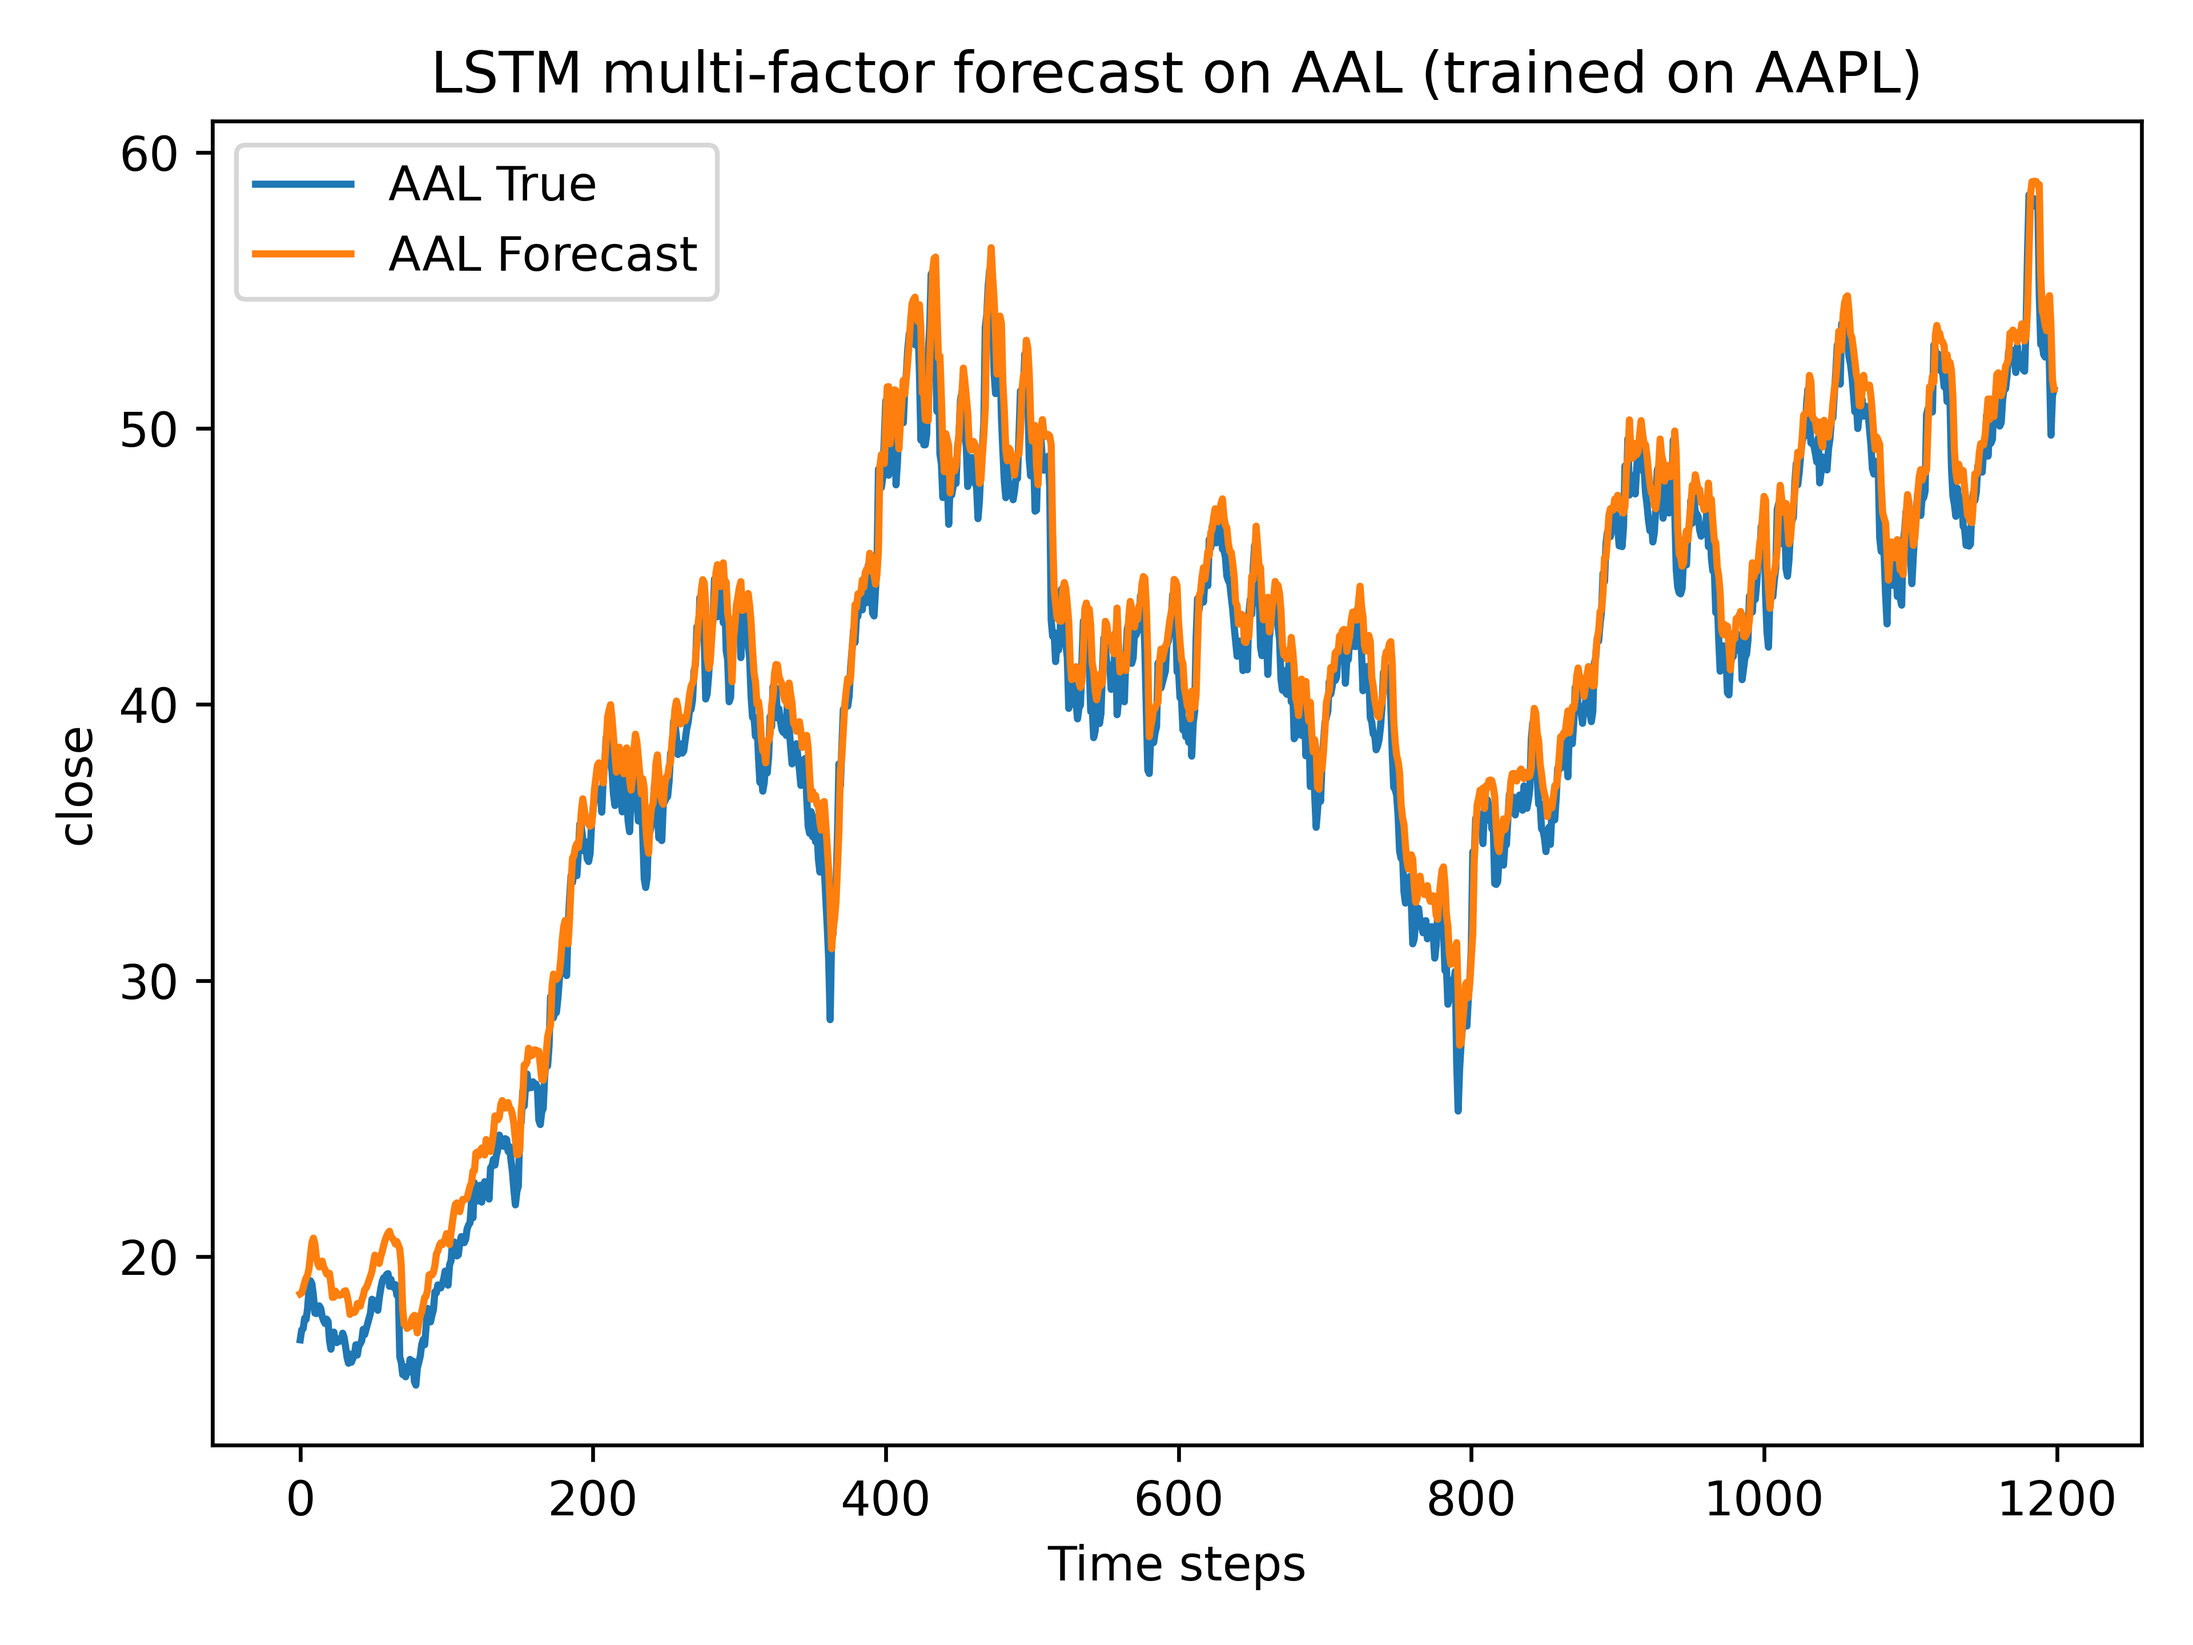
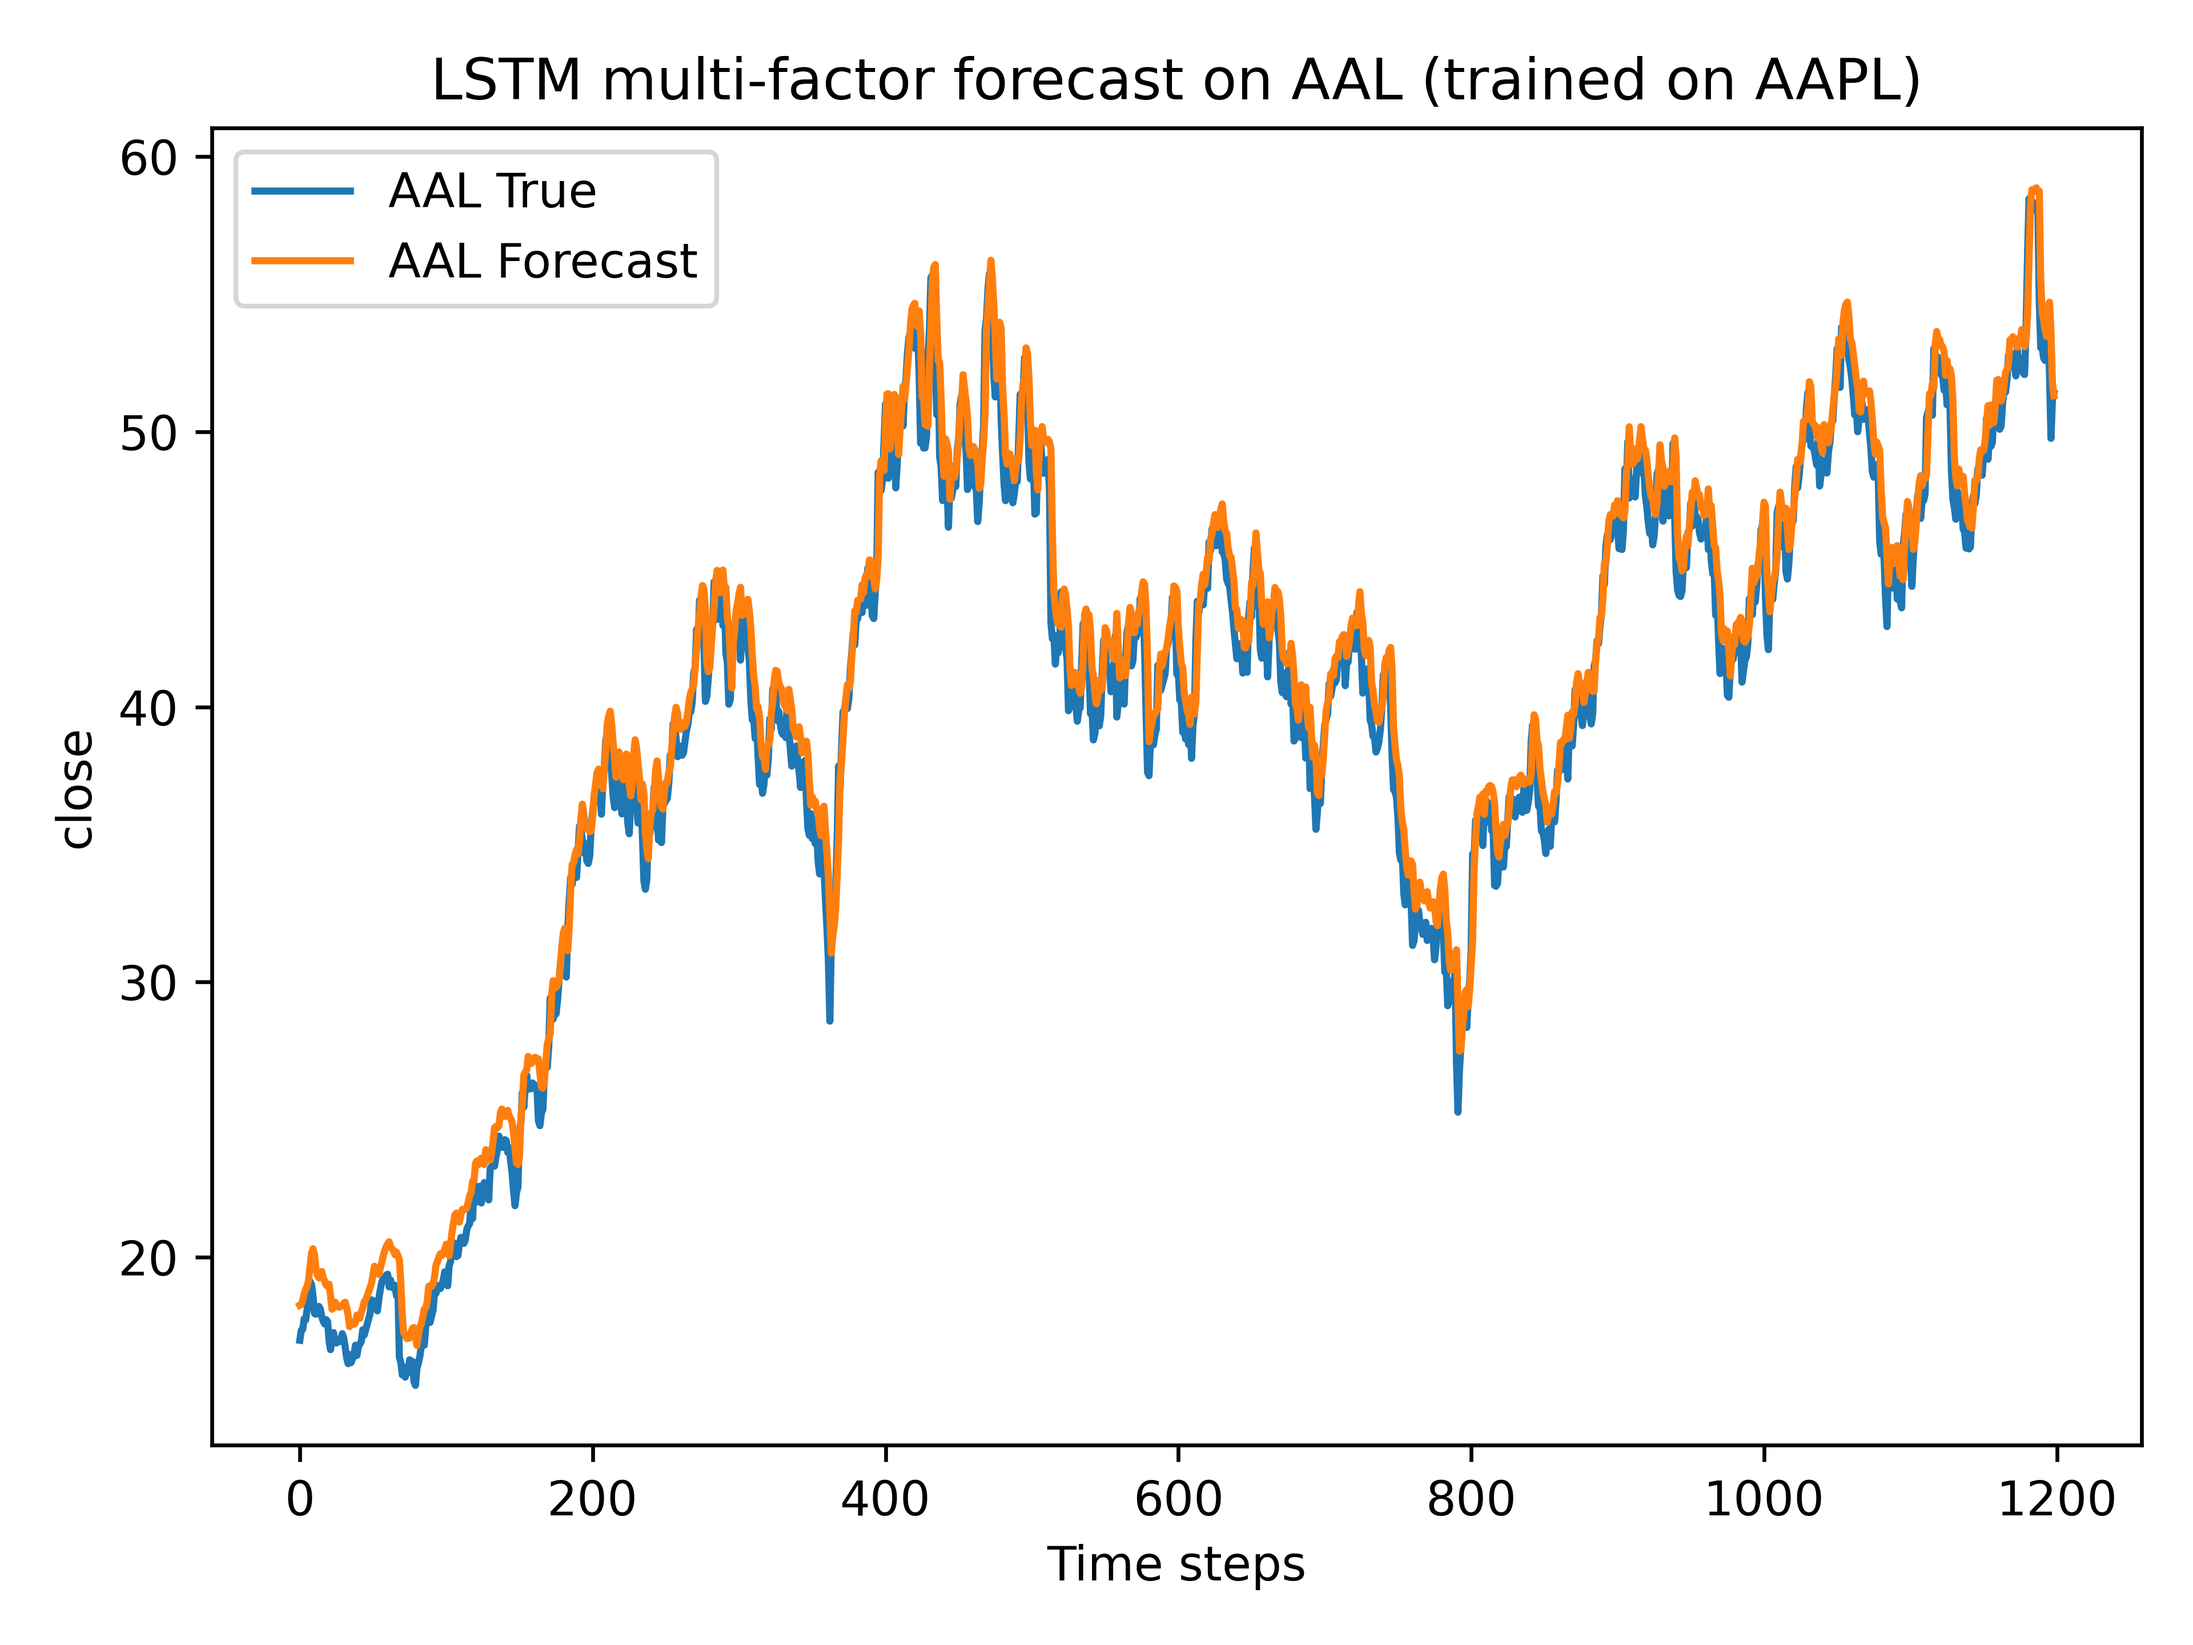
new

diff --git a/test.py b/test.py
@@ -1,0 +1,322 @@
+import numpy as np
+import pandas as pd
+import matplotlib.pyplot as plt
+from pathlib import Path
+from sklearn.preprocessing import MinMaxScaler
+from sklearn.metrics import mean_absolute_error, mean_squared_error
+
+import torch
+import torch.nn as nn
+from torch.utils.data import TensorDataset, DataLoader
+
+device = torch.device("cuda" if torch.cuda.is_available() else "cpu")
+
+DATA_PATH = Path("stock.csv")      
+OUT_DIR = Path("./outputs1"); OUT_DIR.mkdir(parents=True, exist_ok=True)
+
+TRAIN_NAME = "AAPL"
+OTHER_NAMES = ["AAL", "ABBV"]     
+
+FEATURES = ["open", "high", "low", "close", "volume"]
+TARGET = "close"
+
+# ====== 数据加载与处理 ======
+def load_all(date_col="date", name_col="Name"):
+    df = pd.read_csv(DATA_PATH)
+    df[date_col] = pd.to_datetime(df[date_col], errors="coerce")
+    df = df.dropna(subset=[date_col]).sort_values([name_col, date_col])
+    return df
+
+def get_series_by_name(df, name, date_col="date", name_col="Name"):
+    sub = df[df[name_col] == name].copy()
+    if sub.empty:
+        raise ValueError(f"在 CSV 中找不到股票: {name}")
+    sub = sub.sort_values(date_col)
+    return sub.set_index(date_col)
+
+def split_series(values, test_ratio=0.2, min_test=30):
+    n = len(values)
+    t = max(int(n * test_ratio), min_test)
+    return values[:-t], values[-t:]
+
+def make_supervised_multi(X_feat, y_vals, window, horizon=1):
+    """
+    X_feat: (T, n_features)
+    y_vals: (T,) 目标是一维 close
+    """
+    X_list, y_list = [], []
+    T = len(y_vals)
+    for i in range(T - window - horizon + 1):
+        X_list.append(X_feat[i:i+window, :])
+        y_list.append(y_vals[i+window:i+window+horizon])
+    X = np.stack(X_list)                 # (N, window, n_features)
+    y = np.array(y_list).reshape(-1, horizon)   # (N, horizon)
+    return X, y
+
+def metrics(y_true, y_pred):
+    mae = mean_absolute_error(y_true, y_pred)
+    rmse = np.sqrt(mean_squared_error(y_true, y_pred))
+    mape = np.mean(np.abs((y_true - y_pred) / (y_true + 1e-9))) * 100
+    return mae, rmse, mape
+
+# ====== LSTM 模型 ======
+class LSTMPredictor(nn.Module):
+    def __init__(self, input_size, hidden_size=64, horizon=1):
+        super().__init__()
+        self.lstm = nn.LSTM(
+            input_size=input_size,
+            hidden_size=hidden_size,
+            batch_first=True
+        )
+        self.fc = nn.Linear(hidden_size, horizon)
+
+    def forward(self, x):
+        # x: (batch, seq_len, input_size)
+        out, _ = self.lstm(x)
+        last_hidden = out[:, -1, :]     # (batch, hidden_size)
+        out = self.fc(last_hidden)      # (batch, horizon)
+        return out
+
+# ====== 训练 + 在同一股票 test 上预测 ======
+def lstm_torch_multi(
+    X_train_feat, y_train_vals,
+    X_test_feat, y_test_vals,
+    window,
+    horizon=1,
+    epochs=200,
+    batch=32,
+    units=64,
+    return_model=False
+):
+    """
+    使多因子模型和单因子模型风格一致：
+    - 训练：固定窗口 -> 下一日 close
+    - 测试：从 train 尾部取一个 window，滚动预测 test 段，
+            每一步用“真实的 test 特征”推进窗口（teacher forcing）
+    """
+    assert horizon == 1, "当前实现只支持 horizon=1"
+
+    n_features = X_train_feat.shape[1]
+
+    # ===== 1. 联合归一化 train+test =====
+    all_feat = np.vstack([X_train_feat, X_test_feat])
+    all_target = np.concatenate([y_train_vals, y_test_vals])
+
+    scaler_X = MinMaxScaler()
+    scaler_y = MinMaxScaler()
+
+    feat_scaled = scaler_X.fit_transform(all_feat)
+    target_scaled = scaler_y.fit_transform(all_target.reshape(-1, 1)).flatten()
+
+    train_len = len(X_train_feat)
+    X_train_scaled = feat_scaled[:train_len]
+    X_test_scaled = feat_scaled[train_len:]
+    y_train_scaled = target_scaled[:train_len]
+    y_test_scaled = target_scaled[train_len:]
+
+    # ===== 2. 构造训练样本：滑动窗口 -> 下一天 =====
+    X_list, y_list = [], []
+    for i in range(len(y_train_scaled) - window):
+        X_list.append(X_train_scaled[i:i+window, :])   # (window, n_features)
+        y_list.append(y_train_scaled[i+window])        # 标的是第 window+1 天的 close
+
+    X_train_seq = np.array(X_list)                    # (N, window, n_features)
+    y_train_seq = np.array(y_list).reshape(-1, 1)     # (N, 1)
+
+    X_train_t = torch.tensor(X_train_seq, dtype=torch.float32).to(device)
+    y_train_t = torch.tensor(y_train_seq, dtype=torch.float32).to(device)
+
+    dataset = TensorDataset(X_train_t, y_train_t)
+    loader = DataLoader(dataset, batch_size=batch, shuffle=True)
+
+    # ===== 3. 定义模型 =====
+    model = LSTMPredictor(input_size=n_features, hidden_size=units, horizon=1).to(device)
+    criterion = nn.MSELoss()
+    optimizer = torch.optim.Adam(model.parameters(), lr=1e-3)
+
+    # ===== 4. 训练 =====
+    model.train()
+    for ep in range(epochs):
+        epoch_loss = 0.0
+        for xb, yb in loader:
+            optimizer.zero_grad()
+            pred = model(xb)          # (batch, 1)
+            loss = criterion(pred, yb)
+            loss.backward()
+            optimizer.step()
+            epoch_loss += loss.item() * xb.size(0)
+        print(f"Epoch {ep+1}/{epochs} - loss: {epoch_loss/len(dataset):.6f}")
+
+    # ===== 5. 在 test 段做“滚动预测”（与单因子风格一致）=====
+    model.eval()
+    preds_scaled = []
+
+    # 初始 history：取 train 段最后 window 天的特征
+    history_feat = list(X_train_scaled[-window:])   # 长度 = window
+
+    with torch.no_grad():
+        for t in range(len(X_test_scaled)):
+            # 用 history 中最近 window 天作为模型输入
+            x = np.array(history_feat[-window:]).reshape(1, window, n_features)
+            x_t = torch.tensor(x, dtype=torch.float32).to(device)
+            yhat_scaled = model(x_t).cpu().numpy().flatten()[0]
+            preds_scaled.append(yhat_scaled)
+
+            # 用真实的 test 特征推进窗口（teacher forcing）
+            history_feat.append(X_test_scaled[t])
+
+    preds_scaled = np.array(preds_scaled).reshape(-1, 1)
+
+    # y_true：直接用原始尺度的 y_test_vals
+    inv_preds = scaler_y.inverse_transform(preds_scaled).flatten()
+    inv_test = y_test_vals[-len(inv_preds):]   # 对齐（正常情况长度相等）
+
+    if return_model:
+        return inv_test, inv_preds, model, scaler_X, scaler_y
+    else:
+        return inv_test, inv_preds
+    
+# ====== 用训练好的模型在其它股票上预测 ======
+def forecast_other_stock_multi(model, scaler_X, scaler_y, df_stock, window, horizon=1):
+    """
+    df_stock: 某一只股票的数据，index 为 date，包含 FEATURES 和 TARGET
+    使用在 AAPL 上训练好的多因子模型，在该股票上做滚动预测：
+    - 起始窗口：该股票前 window 天的真实特征
+    - 每一步：用 history 的 window 天特征预测下一日 close
+             然后用“真实特征”推进 history（teacher forcing）
+    """
+    assert horizon == 1, "当前实现只支持 horizon=1"
+
+    feat = df_stock[FEATURES].values.astype(float)   # (T, n_features)
+    target = df_stock[TARGET].values.astype(float)   # (T,)
+
+    # 用训练时的 scaler 归一化
+    feat_scaled = scaler_X.transform(feat)
+    target_scaled = scaler_y.transform(target.reshape(-1, 1)).flatten()
+
+    n_features = feat_scaled.shape[1]
+    T = len(feat_scaled)
+    if T <= window:
+        raise ValueError("该股票数据长度不足以构造窗口")
+
+    # 初始 history：前 window 天真实特征
+    history_feat = list(feat_scaled[:window])
+    preds_scaled = []
+
+    model.eval()
+    with torch.no_grad():
+        for t in range(window, T):
+            x = np.array(history_feat[-window:]).reshape(1, window, n_features)
+            x_t = torch.tensor(x, dtype=torch.float32).to(device)
+            yhat_scaled = model(x_t).cpu().numpy().flatten()[0]
+            preds_scaled.append(yhat_scaled)
+
+            # teacher forcing：用真实特征推进
+            history_feat.append(feat_scaled[t])
+
+    preds_scaled = np.array(preds_scaled).reshape(-1, 1)
+    # 真实 close（与预测对齐，从第 window+1 天开始）
+    y_true_scaled = target_scaled[window:]
+
+    inv_preds = scaler_y.inverse_transform(preds_scaled).flatten()
+    inv_true = scaler_y.inverse_transform(y_true_scaled.reshape(-1, 1)).flatten()
+    return inv_true, inv_preds
+
+def main(m):
+    df_all = load_all()
+    # 训练股票
+    df_train_stock = get_series_by_name(df_all, TRAIN_NAME)
+    if len(df_train_stock) < 100:
+        raise ValueError(f"{TRAIN_NAME} 数据太少")
+
+    # 特征与目标
+    feat_vals = df_train_stock[FEATURES].values.astype(float)
+    target_vals = df_train_stock[TARGET].values.astype(float)
+
+    # 只按时间切 train/test
+    n = len(target_vals)
+    t = max(int(n * 0.2), 30)
+    X_train_feat = feat_vals[:-t]
+    X_test_feat  = feat_vals[-t:]
+    y_train_vals = target_vals[:-t]
+    y_test_vals  = target_vals[-t:]
+
+    plt.figure()
+    first_model = None
+    first_scaler_X = None
+    first_scaler_y = None
+    first_window = None
+
+    for i in range(m):
+        n_window = int(input("请输入学习天数 window: "))
+
+        if i == 0:
+            y_true, y_pred, model, scaler_X, scaler_y = lstm_torch_multi(
+                X_train_feat, y_train_vals,
+                X_test_feat, y_test_vals,
+                window=n_window,
+                horizon=1,
+                epochs=200,
+                batch=32,
+                units=64,
+                return_model=True
+            )
+            first_model = model
+            first_scaler_X = scaler_X
+            first_scaler_y = scaler_y
+            first_window = n_window
+            plt.plot(range(len(y_true)), y_true, label=f"{TRAIN_NAME} Test True")
+        else:
+            y_true, y_pred = lstm_torch_multi(
+                X_train_feat, y_train_vals,
+                X_test_feat, y_test_vals,
+                window=n_window,
+                horizon=1,
+                epochs=200,
+                batch=32,
+                units=64,
+                return_model=False
+            )
+
+        MAE, RMSE, MAPE = metrics(y_true, y_pred)
+        print(f"{TRAIN_NAME} LSTM (multi-factor, window={n_window}) -> "
+              f"MAE={MAE:.4f} RMSE={RMSE:.4f} MAPE={MAPE:.2f}%")
+
+        plt.plot(range(len(y_pred)), y_pred, label=f"{TRAIN_NAME} Forecast_{n_window}")
+
+    plt.title(f"LSTM Forecast vs Actual on {TRAIN_NAME} (multi-factor)")
+    plt.xlabel("Time steps"); plt.ylabel("close")
+    plt.legend(); plt.tight_layout()
+    plt.savefig(OUT_DIR / f"lstm_multi_{TRAIN_NAME}_{n_window}.png", dpi=600)
+
+    # 用第一次训练的模型在其它股票上预测
+    if first_model is not None and OTHER_NAMES:
+        for name in OTHER_NAMES:
+            try:
+                df_other = get_series_by_name(df_all, name)
+            except ValueError as e:
+                print(e)
+                continue
+
+            if len(df_other) <= first_window + 5:
+                print(f"{name} 数据太少，跳过。")
+                continue
+
+            y_true_o, y_pred_o = forecast_other_stock_multi(
+                first_model, first_scaler_X, first_scaler_y,
+                df_other, window=first_window, horizon=1
+            )
+            MAE_o, RMSE_o, MAPE_o = metrics(y_true_o, y_pred_o)
+            print(f"{name} (multi-factor, use {TRAIN_NAME}-trained model) -> "
+                  f"MAE={MAE_o:.4f} RMSE={RMSE_o:.4f} MAPE={MAPE_o:.2f}%")
+
+            plt.figure()
+            plt.plot(range(len(y_true_o)), y_true_o, label=f"{name} True")
+            plt.plot(range(len(y_pred_o)), y_pred_o, label=f"{name} Forecast")
+            plt.title(f"LSTM multi-factor forecast on {name} (trained on {TRAIN_NAME})")
+            plt.xlabel("Time steps"); plt.ylabel("close")
+            plt.legend(); plt.tight_layout()
+            plt.savefig(OUT_DIR / f"lstm_multi_{name}_{n_window}.png", dpi=600)
+
+if __name__ == "__main__":
+    main(1)
